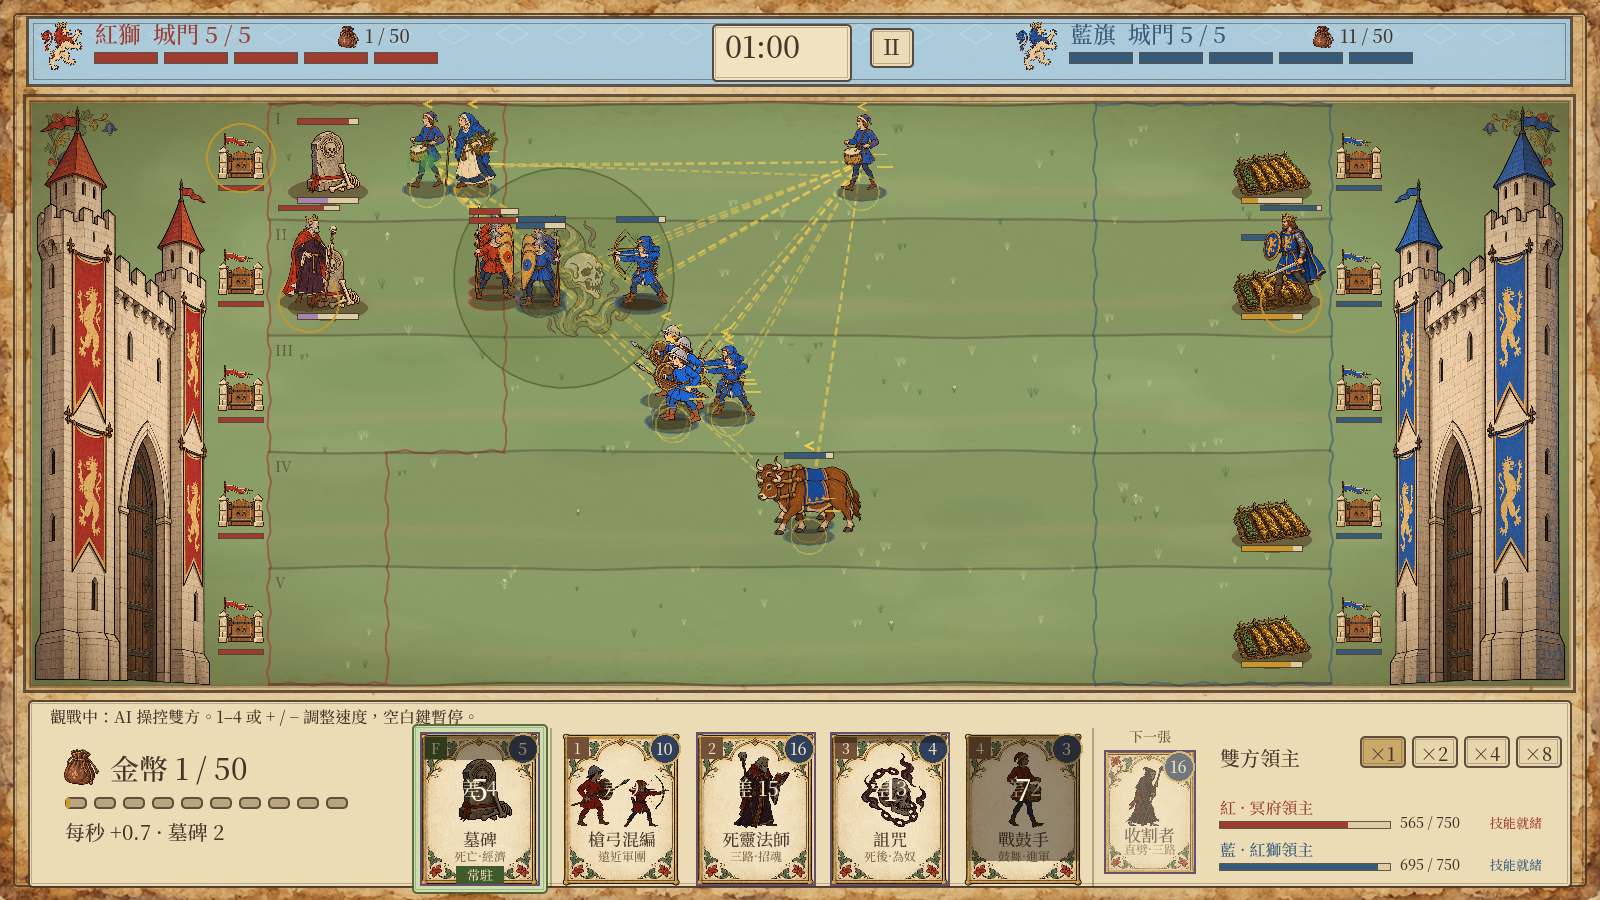
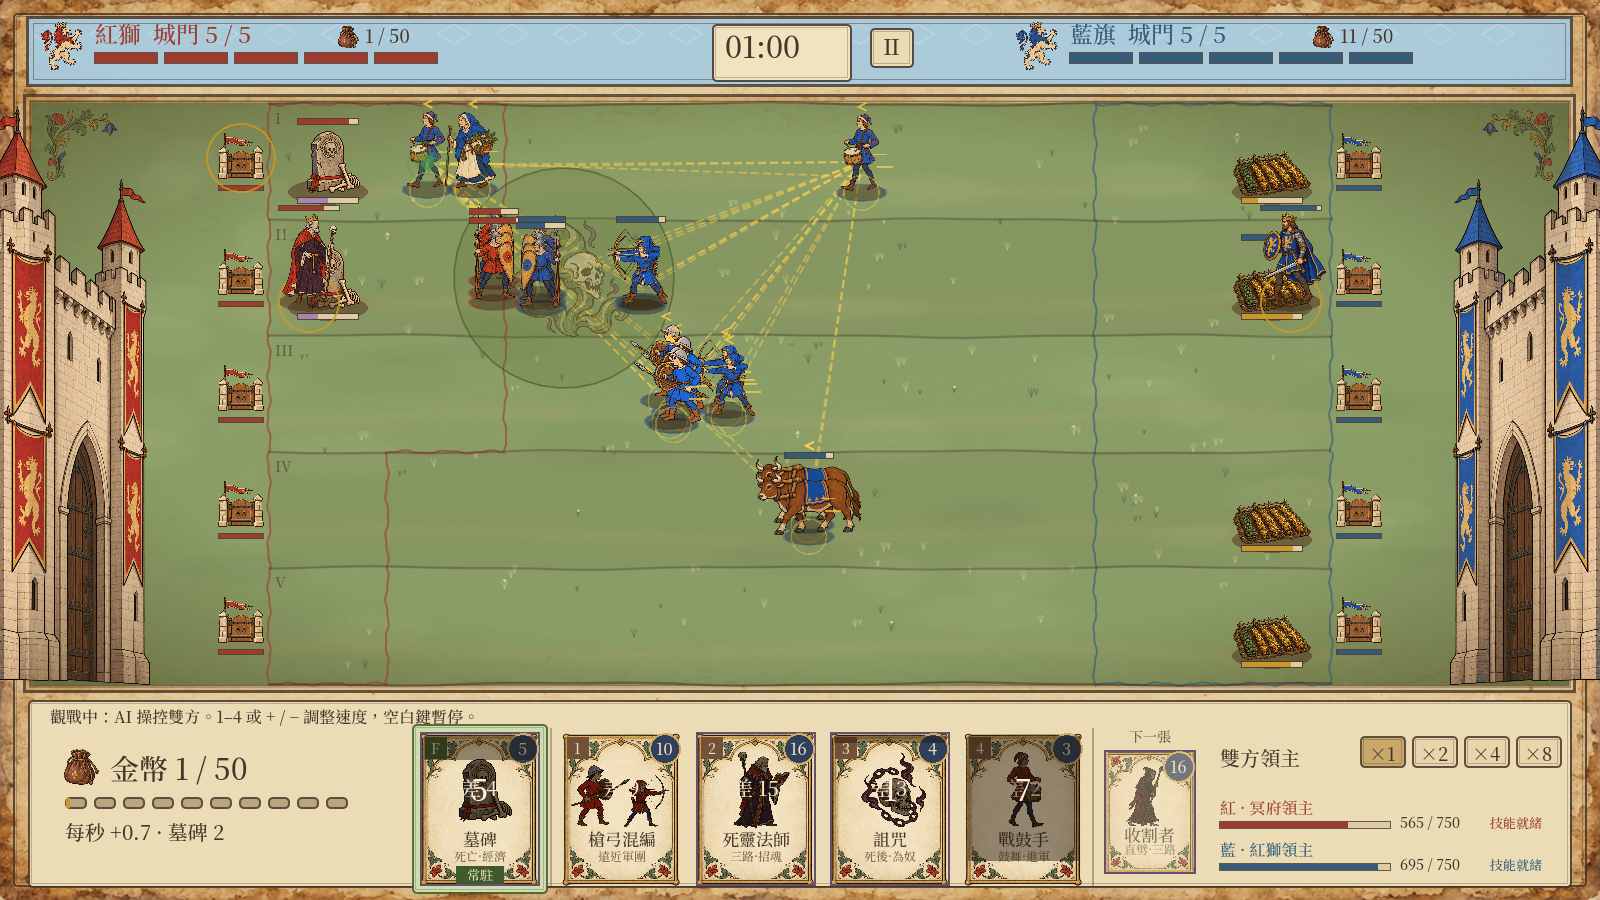
Move castle walls beyond screen edges for a larger fortress silhouette

Changed region(s): [[0.8438, 0.1244, 1.0, 0.7778], [0.0, 0.1244, 0.1562, 0.7778]]

diff --git a/docs/高城門美術.md b/docs/高城門美術.md
@@ -3,7 +3,7 @@
 依製作人最新參考圖，戰場兩側改為高聳的連續城牆、塔樓、長旗與拱門立面。此要求取代先前戰場顯示矮堡壘的方向；標題畫面的完整堡壘保留。
 
 - 新素材：`assets/manuscript-v1/castle-wall.png`，prompt 同目錄存檔。
-- 兩側顯示範圍各 185×580，從 y=106 延伸至 y=686；戰場格子、城門判定與 HUD 不變。
+- 兩側顯示範圍各 185×580，從 y=106 延伸至 y=686；左側 x=-30、右側 x=1445，各向螢幕外超出 30，外側塔樓自然被裁切，形成城堡延伸至畫面外的感覺。戰場格子、城門判定與 HUD 不變。
 - 紅藍共用一張素材，藍方鏡像並只換紅色屋頂與旗幟；木門區域另有保護遮罩，保留木色。
 - 戰鬥 60 秒實景：`docs/tall-gate-preview.png`，已檢視高度、邊界與紅藍換色。
 - 工作目錄 headless smoke：744 項通過、回傳 0。另以已提交規則基線隔離驗證本次美術，避免混入同步開發中的卡牌規則。
